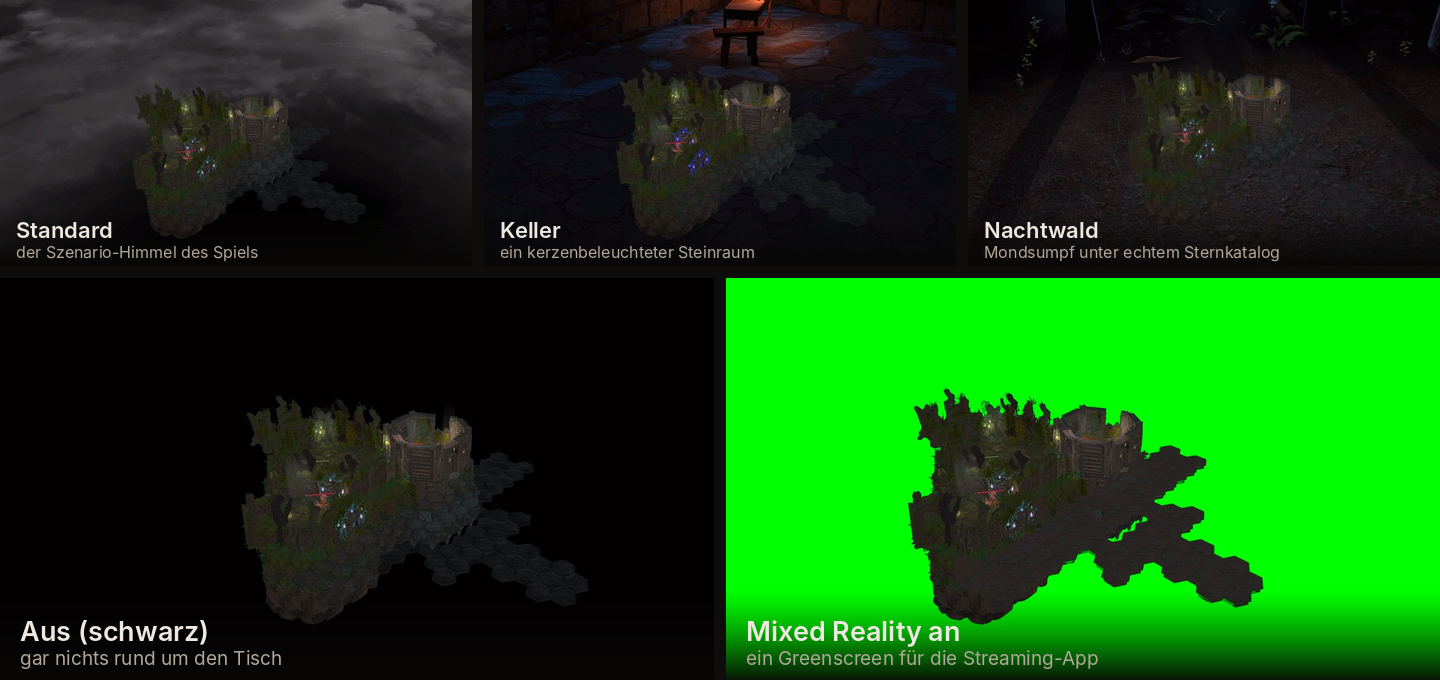
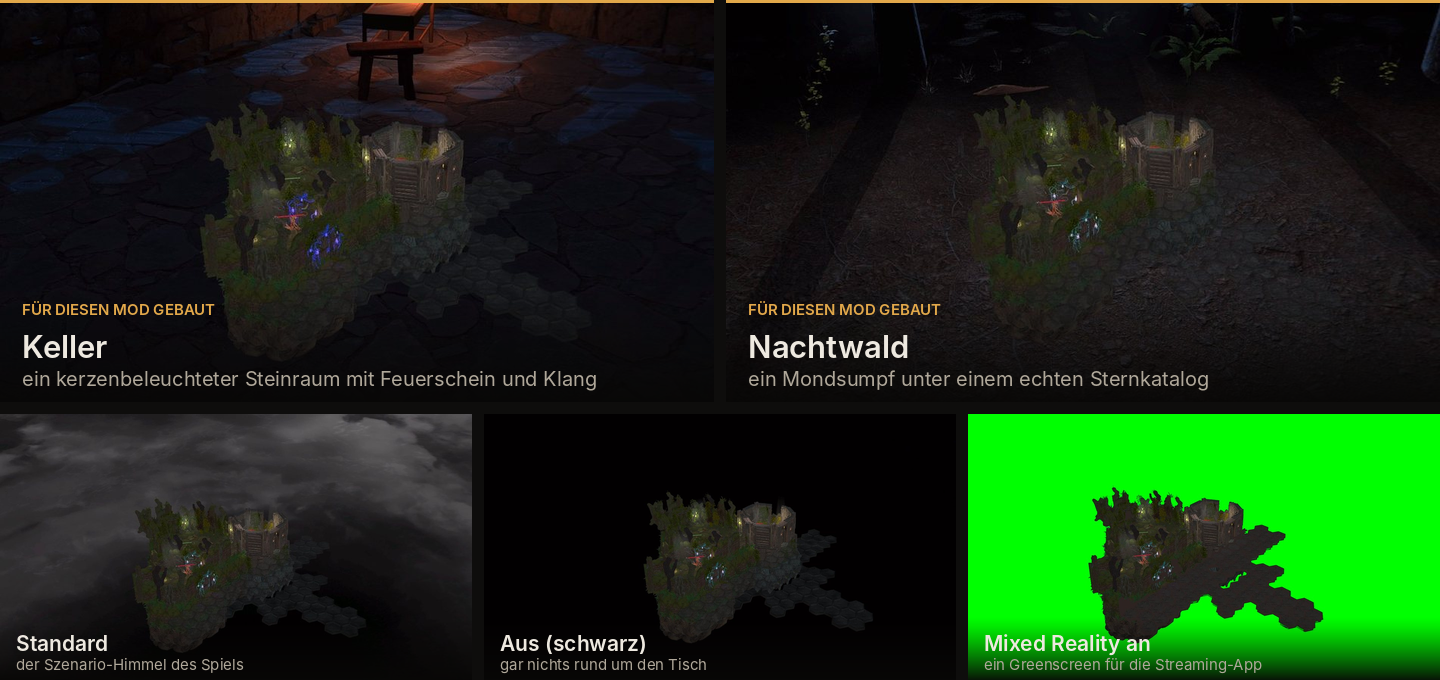
docs(readme): the two rooms this project built now carry the sheet, not the two that are empty
Maintainer: "In der Matrix der Umgebungsbilder will ich das die zwei eigenen
Umgebungen (wald und Keller) hervorgehoben sind und groesser sind als die anderen
nicht Off und mixed-reality."

He is right and the first version had it backwards. Size on this sheet is a claim
about what the project MADE; spending it on the absence of a room said the opposite
of what the section is about. Cellar and Night forest now take the wide top row with
an accent rule and a "BUILT FOR THIS MOD" eyebrow; the game's own sky, Off (black)
and Mixed Reality share the narrow row below.

Also makes an overflowing caption FAIL the build instead of clipping. The German
gloss for the cellar shipped as "seltene Ereigni" with the rest of the word off the
tile - the same failure this project already has a standing lesson for, a cap sized
in English. Nothing wraps or shrinks to fit on purpose: a caption that needs either
is too long, and the fix is the wording, not the layout.

Claude-Session: https://claude.ai/code/session_019XYDTbtxYgN6KuK3beHk3Q

diff --git a/docs/img/build-env-styles.py b/docs/img/build-env-styles.py
@@ -28,9 +28,13 @@ under. `sky_default` / `sky_cellar` / `sky_swamp` / `sky_off` are the four SkySt
 `vr_o_mrenabled` is the mixed-reality tile, in the order VariantTilesTable.EnvironmentTiles builds
 them. If a row is renamed there, rename it here in the same commit.
 
-THE TWO-ROW SPLIT IS MEANINGFUL, not a way to fill a grid. The top row is the three ROOMS the mod
-can put around the table; the bottom row is the two ways of having NO room, and those two get the
-wider tiles because what they show is the absence of one.
+THE TWO-ROW SPLIT IS MEANINGFUL, not a way to fill a grid, AND THE MAINTAINER SET ITS DIRECTION:
+"In der Matrix der Umgebungsbilder will ich das die zwei eigenen Umgebungen (wald und Keller)
+hervorgehoben sind und groesser sind als die anderen nicht Off und mixed-reality." So the top row is
+the two rooms BUILT FOR THIS MOD, at nearly half the sheet each and wearing an accent rule and an
+eyebrow; the bottom row is the three that are not rooms at all - the game's own sky, no sky, and the
+green key. Size on this sheet is a claim about what the project MADE, and it should not be spent on
+the absence of a room. The first version had it the other way round and was wrong.
 """
 
 import os
@@ -48,40 +52,48 @@ def font(name, size):
 # 1440 wide so the README can render it at 720 on a 2x display without softening.
 W = 1440
 GAP = 12
-TOP_W = (W - 2 * GAP) // 3          # 472
-TOP_H = round(TOP_W * 531 / 944)    # 266, the tile artwork's own aspect
-BOT_W = (W - GAP) // 2              # 714
-BOT_H = round(BOT_W * 797 / 1416)   # 402
+TOP_W = (W - GAP) // 2              # 714 - the two rooms this project built
+TOP_H = round(TOP_W * 797 / 1416)   # 402
+BOT_W = (W - 2 * GAP) // 3          # 472 - the three that are not rooms
+BOT_H = round(BOT_W * 531 / 944)    # 266
 H = TOP_H + GAP + BOT_H
 
 BG = (14, 13, 12)
 INK = (238, 233, 224)
 SUB = (176, 168, 154)
+# The warm accent the mod's own board furniture uses. It marks the two tiles, nothing else.
+ACCENT = (226, 168, 74)
 
-# key, English name, German name, English gloss, German gloss
+# key, English name, German name, English gloss, German gloss. The first TWO are the mod's own
+# rooms and take the wide top row; the order inside each row follows VariantTilesTable's picker.
 TILES = [
+    ("cellar", "Cellar", "Keller",
+     "a candle-lit stone room, with firelight and sound",
+     "ein kerzenbeleuchteter Steinraum mit Feuerschein und Klang"),
+    ("forest", "Night forest", "Nachtwald",
+     "a moonlit swamp under a real star catalogue",
+     "ein Mondsumpf unter einem echten Sternkatalog"),
     ("default", "Default", "Standard",
      "the game's own scenario sky", "der Szenario-Himmel des Spiels"),
-    ("cellar", "Cellar", "Keller",
-     "a candle-lit stone room", "ein kerzenbeleuchteter Steinraum"),
-    ("forest", "Night forest", "Nachtwald",
-     "a moonlit swamp under a real star catalogue", "Mondsumpf unter echtem Sternkatalog"),
     ("off", "Off (black)", "Aus (schwarz)",
-     "nothing around the table at all", "gar nichts rund um den Tisch"),
+     "nothing around the table", "gar nichts rund um den Tisch"),
     ("mr", "Mixed Reality", "Mixed Reality an",
      "a green key for your streaming app",
      "ein Greenscreen für die Streaming-App"),
 ]
 
+# Only the two rooms wear it. It says what the size is already saying, in words.
+EYEBROW = {"en": "BUILT FOR THIS MOD", "de": "FÜR DIESEN MOD GEBAUT"}
 
-def caption(img, box, name, gloss, big):
+
+def caption(img, box, name, gloss, big, eyebrow=None):
     """A bottom-anchored caption over a darkened strip, inside the tile itself.
 
     Over the tile rather than beneath it because the five tiles are two different sizes: a caption
     band outside them would make the two rows different heights for a reason the reader cannot see.
     """
     x, y, w, h = box
-    band_h = 92 if big else 64
+    band_h = 122 if big else 64
     strip = Image.new("RGBA", (w, band_h), (0, 0, 0, 0))
     sd = ImageDraw.Draw(strip)
     for i in range(band_h):                      # a soft ramp, so no hard edge crosses the art
@@ -90,25 +102,45 @@ def caption(img, box, name, gloss, big):
     img.paste(strip, (x, y + h - band_h), strip)
 
     d = ImageDraw.Draw(img)
-    f_name = font("Inter-SemiBold.otf", 27 if big else 22)
-    f_gloss = font("Inter-Regular.otf", 19 if big else 16)
-    pad = 20 if big else 16
-    ty = y + h - band_h + (26 if big else 14)
+    f_name = font("Inter-SemiBold.otf", 31 if big else 21)
+    f_gloss = font("Inter-Regular.otf", 20 if big else 15)
+    pad = 22 if big else 16
+    ty = y + h - band_h + (20 if big else 14)
+    if eyebrow:
+        d.text((x + pad, ty), eyebrow, font=font("Inter-SemiBold.otf", 15), fill=ACCENT)
+        ty += 27
+    # A CAPTION THAT DOES NOT FIT IS A BUILD FAILURE, NOT A CLIPPED LINE. German runs longer than
+    # English almost everywhere in this project and the first version of this sheet shipped
+    # "seltene Ereigni" with the rest of the word off the tile. Nothing here wraps or shrinks to
+    # fit on purpose: a caption that needs either is a caption that is too long, and the fix is the
+    # wording in TILES, not the layout.
+    for line, f in ((name, f_name), (gloss, f_gloss)):
+        over = pad + d.textlength(line, font=f) - (w - pad)
+        if over > 0:
+            raise SystemExit(
+                f"caption overflows its tile by {over:.0f}px: {line!r} — shorten it in TILES")
     d.text((x + pad, ty), name, font=f_name, fill=INK)
-    d.text((x + pad, ty + (32 if big else 26)), gloss, font=f_gloss, fill=SUB)
+    d.text((x + pad, ty + (39 if big else 25)), gloss, font=f_gloss, fill=SUB)
+
+    # THE HIGHLIGHT ITSELF: a hairline of the accent along the tile's top edge. A border all the way
+    # round would read as a SELECTION state - the mod's own variant picker uses one for the live
+    # style - and this sheet is not a picker. A single rule reads as emphasis and nothing else.
+    if eyebrow:
+        d.rectangle([x, y, x + w - 1, y + 2], fill=ACCENT)
 
 
 def build(lang):
     sheet = Image.new("RGB", (W, H), BG)
     for i, (key, en, de, gen, gde) in enumerate(TILES):
         art = Image.open(os.path.join(HERE, f"env-tile-{key}.jpg")).convert("RGB")
-        big = i >= 3
-        w, h = (BOT_W, BOT_H) if big else (TOP_W, TOP_H)
-        x = (i - 3) * (BOT_W + GAP) if big else i * (TOP_W + GAP)
-        y = TOP_H + GAP if big else 0
+        big = i < 2
+        w, h = (TOP_W, TOP_H) if big else (BOT_W, BOT_H)
+        x = i * (TOP_W + GAP) if big else (i - 2) * (BOT_W + GAP)
+        y = 0 if big else TOP_H + GAP
         sheet.paste(art.resize((w, h), Image.LANCZOS), (x, y))
         caption(sheet, (x, y, w, h), en if lang == "en" else de,
-                gen if lang == "en" else gde, big)
+                gen if lang == "en" else gde, big,
+                eyebrow=EYEBROW[lang] if big else None)
     out = os.path.join(HERE, f"env-styles-{lang}.png")
     sheet.save(out, optimize=True)
     print(f"{out}  {W}x{H}  {os.path.getsize(out):,} bytes")

diff --git a/README.de.md b/README.de.md
@@ -141,12 +141,12 @@ Projekt gebaut, beide mit Feuerschein, Umgebungsklang und seltenen Ereignissen.
   <img src="docs/img/env-forest.jpg" width="350" alt="Der Nachtwald">
 </p>
 
-**Fünf Möglichkeiten, ein Regler.** Derselbe Tisch und dasselbe Szenario in jedem Raum, den der Mod
-darum herum stellen kann — auch ganz ohne Raum, und mit dem Greenscreen, der den Tisch an deine
-Streaming-App übergibt.
+**Ein Regler, fünf Einstellungen.** Derselbe Tisch und dasselbe Szenario in jeder davon. Die beiden
+Räume oben sind die, die für diesen Mod gebaut wurden; die anderen drei sind der Himmel des Spiels,
+gar kein Himmel, und der Greenscreen, der den Tisch an deine Streaming-App übergibt.
 
 <p align="center">
-  <img src="docs/img/env-styles-de.png" width="720" alt="Die fünf Umgebungen: Standard-Himmel, Keller, Nachtwald, Aus (schwarz) und Mixed Reality">
+  <img src="docs/img/env-styles-de.png" width="720" alt="Die fünf Umgebungen: Keller und Nachtwald, beide für diesen Mod gebaut, darunter der Himmel des Spiels, Aus (schwarz) und Mixed Reality">
 </p>
 
 ### Die Räume reagieren auf die Elemente

diff --git a/README.md b/README.md
@@ -139,11 +139,12 @@ with firelight, ambient sound and rare events.
   <img src="docs/img/env-forest.jpg" width="350" alt="The night forest">
 </p>
 
-**Five choices, one dial.** The same table and the same scenario, in every room the mod can put
-around it — including no room at all, and the green key that hands the table to your streaming app.
+**One dial, five settings.** The same table and the same scenario in each of them. The two rooms
+above are the ones built for this mod; the other three are the game's own sky, no sky at all, and
+the green key that hands the table to your streaming app.
 
 <p align="center">
-  <img src="docs/img/env-styles-en.png" width="720" alt="The five environment options: default sky, cellar, night forest, off (black) and mixed reality">
+  <img src="docs/img/env-styles-en.png" width="720" alt="The five environment settings: cellar and night forest, both built for this mod, above the game's own sky, off (black) and mixed reality">
 </p>
 
 ### The rooms react to the elements
